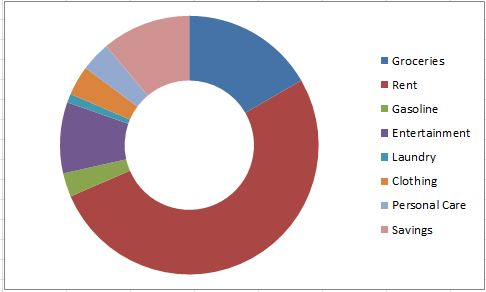
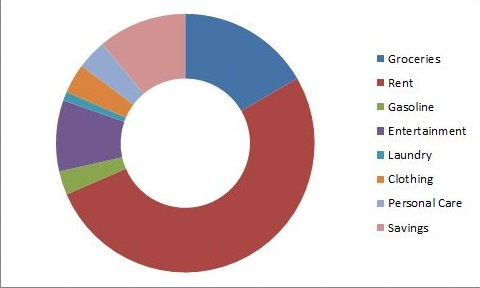
graphs added to visuals page

diff --git a/pages/visual.html b/pages/visual.html
@@ -35,6 +35,28 @@
             </ul>
         </div>
     </nav>
+
+    <section class="visuals">
+      <div class="image">
+        <img src="../images/Area.JPG" />
+      </div>
+      <div class="image">
+        <img src="../images/Doughnut.JPG" />
+      </div>
+      <div class="image">
+        <img src="../images/Bar.JPG" />
+      </div>
+      <div class="image">
+        <img src="../images/Pie.JPG"/>
+      </div>
+      <div class="image">
+        <img src="../images/Column.JPG" />
+      </div>
+      <div class="image">
+        <img src="../images/Scatter.JPG" />
+      </div>
+      </section>
+
     <script src="https://code.jquery.com/jquery-3.3.1.slim.min.js" integrity="sha384-q8i/X+965DzO0rT7abK41JStQIAqVgRVzpbzo5smXKp4YfRvH+8abtTE1Pi6jizo"
         crossorigin="anonymous"></script>
     <script src="https://cdnjs.cloudflare.com/ajax/libs/popper.js/1.14.6/umd/popper.min.js" integrity="sha384-wHAiFfRlMFy6i5SRaxvfOCifBUQy1xHdJ/yoi7FRNXMRBu5WHdZYu1hA6ZOblgut"

diff --git a/css/styles.css b/css/styles.css
@@ -7,43 +7,13 @@ img {
     background-color: #3292a6;
 }
 
-/* The Masonry Container */
-
-.masonry {
-    margin: 1.5em auto;
-}
-
-/* The Masonry Brick */
-
-.item {
-    background: #fff;
-    padding: 0.5em 0;
-    margin: 0;
-}
-
-/* Masonry on large screens */
-
-@media only screen and (min-width: 1024px) {
-    .masonry {
-        column-count: 4;
-        margin: 1em;
-    }
-}
-
-/* Masonry on medium-sized screens */
-
-@media only screen and (max-width: 1023px) and (min-width: 768px) {
-    .masonry {
-        column-count: 3;
-    }
-}
-
-/* Masonry on small screens */
-
-@media only screen and (max-width: 767px) and (min-width: 540px) {
-    .masonry {
-        column-count: 2;
-    }
+.visuals {
+  display: grid;
+  grid-template: auto auto auto auto auto / 1fr 1fr 1fr;
+  grid-column-gap: 10px;
+  grid-row-gap: 10px;
+  padding-left: : 20px;
+  padding-right: : 20px;
 }
 
 section {
